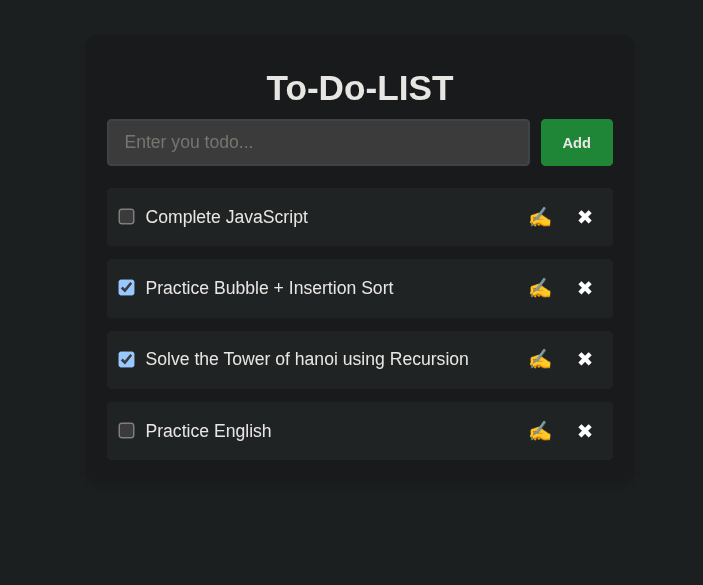
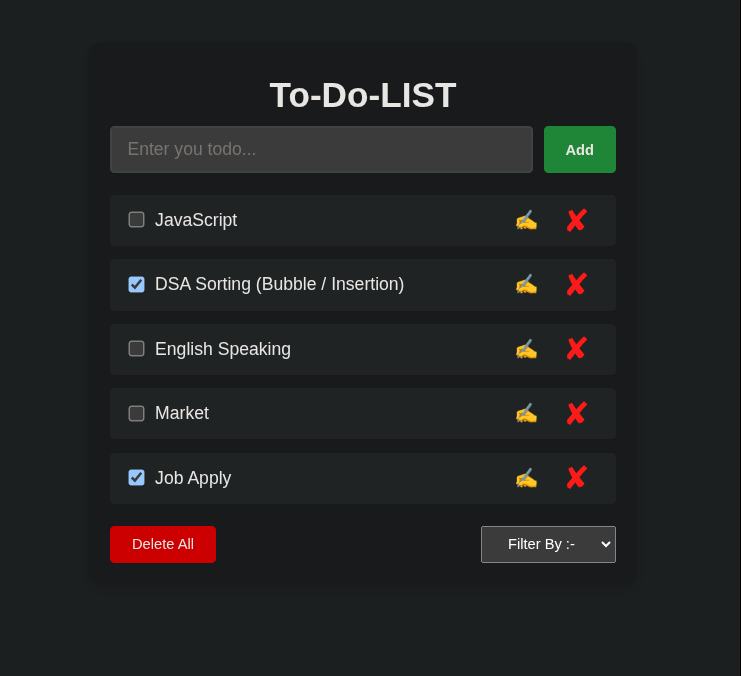
delete all and filer

diff --git a/script.js b/script.js
@@ -2,17 +2,21 @@ import {createTodo} from './controller.js'
 
 let store = [];
 
-
 //const cont = document.querySelector('.cont');
 const list = document.querySelector('.list');
 const input = document.querySelector('.mainInput');
 const button = document.querySelector('.addBtn');
+const deletAllBtn = document.querySelector('.deletAll')
+const extBtnBox = document.querySelector('.extbtnbox')
+const select = document.querySelector('select')
+
 
 if(localStorage.getItem('todo')){
   store = JSON.parse(localStorage.getItem('todo'));
   store.forEach(todoData => {
     const todo = createTodo(todoData);
     list.append(todo)
+    extBtnBox.style.display='flex'
   });
 }
 
@@ -30,8 +34,7 @@ button.addEventListener('click', ()=>{
   store.push(todoData);
 
   localStorage.setItem('todo', JSON.stringify(store))
-
-
+  extBtnBox.style.display='flex'
 })
 
 list.addEventListener('click', (event)=>{
@@ -84,14 +87,35 @@ list.addEventListener('click', (event)=>{
     }
 
   }
+})
 
-
-
+deletAllBtn.addEventListener('click', ()=>{
+  console.log("deleted")
+  list.innerHTML=""
+  store.length = 0;
+  localStorage.removeItem('todo');
+  extBtnBox.style.display='none'
 })
 
 
+select.addEventListener('change', (event)=>{
+  const filterBy = event.target.value
+  store = JSON.parse(localStorage.getItem('todo'))
+  if(filterBy == 'completed'){
+    store = store.filter(item => item.completed)
+  } else if(filterBy == 'pending') {
+    store = store.filter(item => !item.completed)
+  }
 
+  list.innerHTML=""
 
+  store.forEach(todoData => {
+    const todo = createTodo(todoData);
+    list.append(todo)
+    extBtnBox.style.display='flex'
+  });
+
+})
 
 
 

diff --git a/style.css b/style.css
@@ -76,7 +76,7 @@ body {
   align-items: center;
   gap: 10px;
   background-color: #f1f1f1;
-  padding: 10px 12px;
+  padding: 0px 18px;
   border-radius: 4px;
   transition: background-color 0.3s ease;
 }
@@ -117,4 +117,25 @@ button.delete:hover {
 h1{
   margin: 10px 0px;
   text-align: center;
+}
+
+
+.extbtnbox {
+  padding: 20px 0px 0px;
+  display: none;
+  justify-content:space-between;
+}
+
+.extbtnbox > button{
+  background:red;
+  color:white;
+  border-radius: 4px;
+  outline:none;
+  border: none;
+}
+
+.extbtnbox > button,
+.extbtnbox > select
+{
+  padding: 8px 20px;
 }

diff --git a/index.html b/index.html
@@ -14,6 +14,15 @@
         <button class="addBtn">Add</button>
       </div>
       <div class="list"></div>
+
+      <div class="extbtnbox">
+        <button class="deletAll">Delete All</button>
+        <select>
+          <option value="">Filter By :-</option>
+          <option value="completed">completed</option>
+          <option value="pending">Pending</option>
+        </select>
+      </div>
   </div>
 
   <script type="module" src="script.js"></script>

diff --git a/controller.js b/controller.js
@@ -11,7 +11,9 @@ export function createTodo(todoData){
 
   const deleteBtn = document.createElement('button');
   deleteBtn.className="delete"
-  deleteBtn.innerText="✖"
+  deleteBtn.style.color = 'red'
+  deleteBtn.style.fontSize = '29px'
+  deleteBtn.innerText="✘"
 
   const checkBox = document.createElement('input')
   checkBox.className="check"
